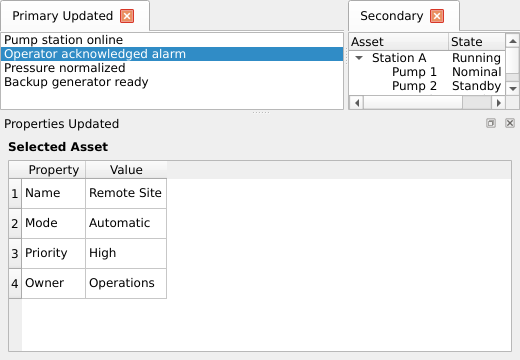
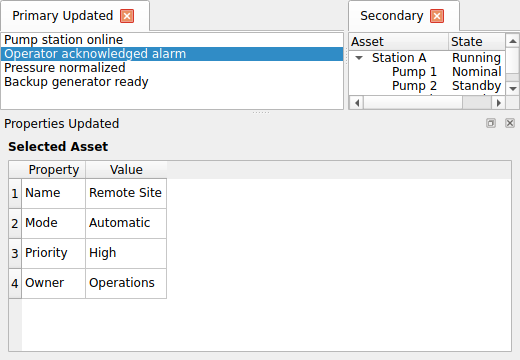
graph_qt, view_manager_qt: re-record the Linux goldens for Qt 6.11.2
The client's v2.6.3 CI run (scada-client run 42506651766) failed only on
its Ubuntu/GCC leg: graph_qt's basic_graph, multiple_lines and
multiple_panes and view_manager_qt's open_layout and component_workflow
differed from their Linux goldens by 1719/1829/2499/13767/11188 pixels.
The same suites passed on v2.6.0 (2026-11-02), before the vcpkg bump to
a2f9862da6 brought Qt 6.11.2.

The new baselines are the run's own actual_<name>.png renders from the
linux-goldens artifact, reviewed against the old goldens first: every
differing pixel is inside a text glyph. Lines, points, grid, fills,
selection highlights, headers and layout are unchanged, and the date
labels match, so this is glyph rasterization drift and not a broken
render. Windows and macOS were unaffected.

Both CLAUDE.md files now describe that re-record route, and the line
"Deleting a golden is the only way to ask for a new baseline" now reads
"The test regenerates a golden only when it is missing", which is what
that paragraph actually describes.

diff --git a/CLAUDE.md b/CLAUDE.md
@@ -53,7 +53,16 @@ review and commit. Read and write them through
 `build-support/scada_qt_golden_image.h` (namespace `scada::qt_test`) — never
 `QImage::save()` onto a golden path directly.
 
-**Deleting a golden is the only way to ask for a new baseline.** A golden that
+**A Qt bump moves the Linux set, and the fix is a reviewed re-record, not a
+delete.** The Linux leg's `linux-goldens` artifact also carries the
+`actual_<name>.png` of every mismatch, so the new baseline is already in hand:
+diff it against the golden, confirm the differences are confined to glyphs,
+and copy it over. Re-recorded that way on 2026-11-08, when the vcpkg bump to
+Qt 6.11.2 changed Linux text rasterization by 1.7k–13.8k pixels per image
+with every line, fill and layout unchanged (scada-client run 42506651766);
+Windows and macOS were unaffected.
+
+**The test regenerates a golden only when it is missing.** A golden that
 is present but does not decode — truncated, corrupt, or a build without the PNG
 codec — fails the test and says to restore it from git; it is never treated as
 "no baseline yet". The two used to be one condition, and that cost this
